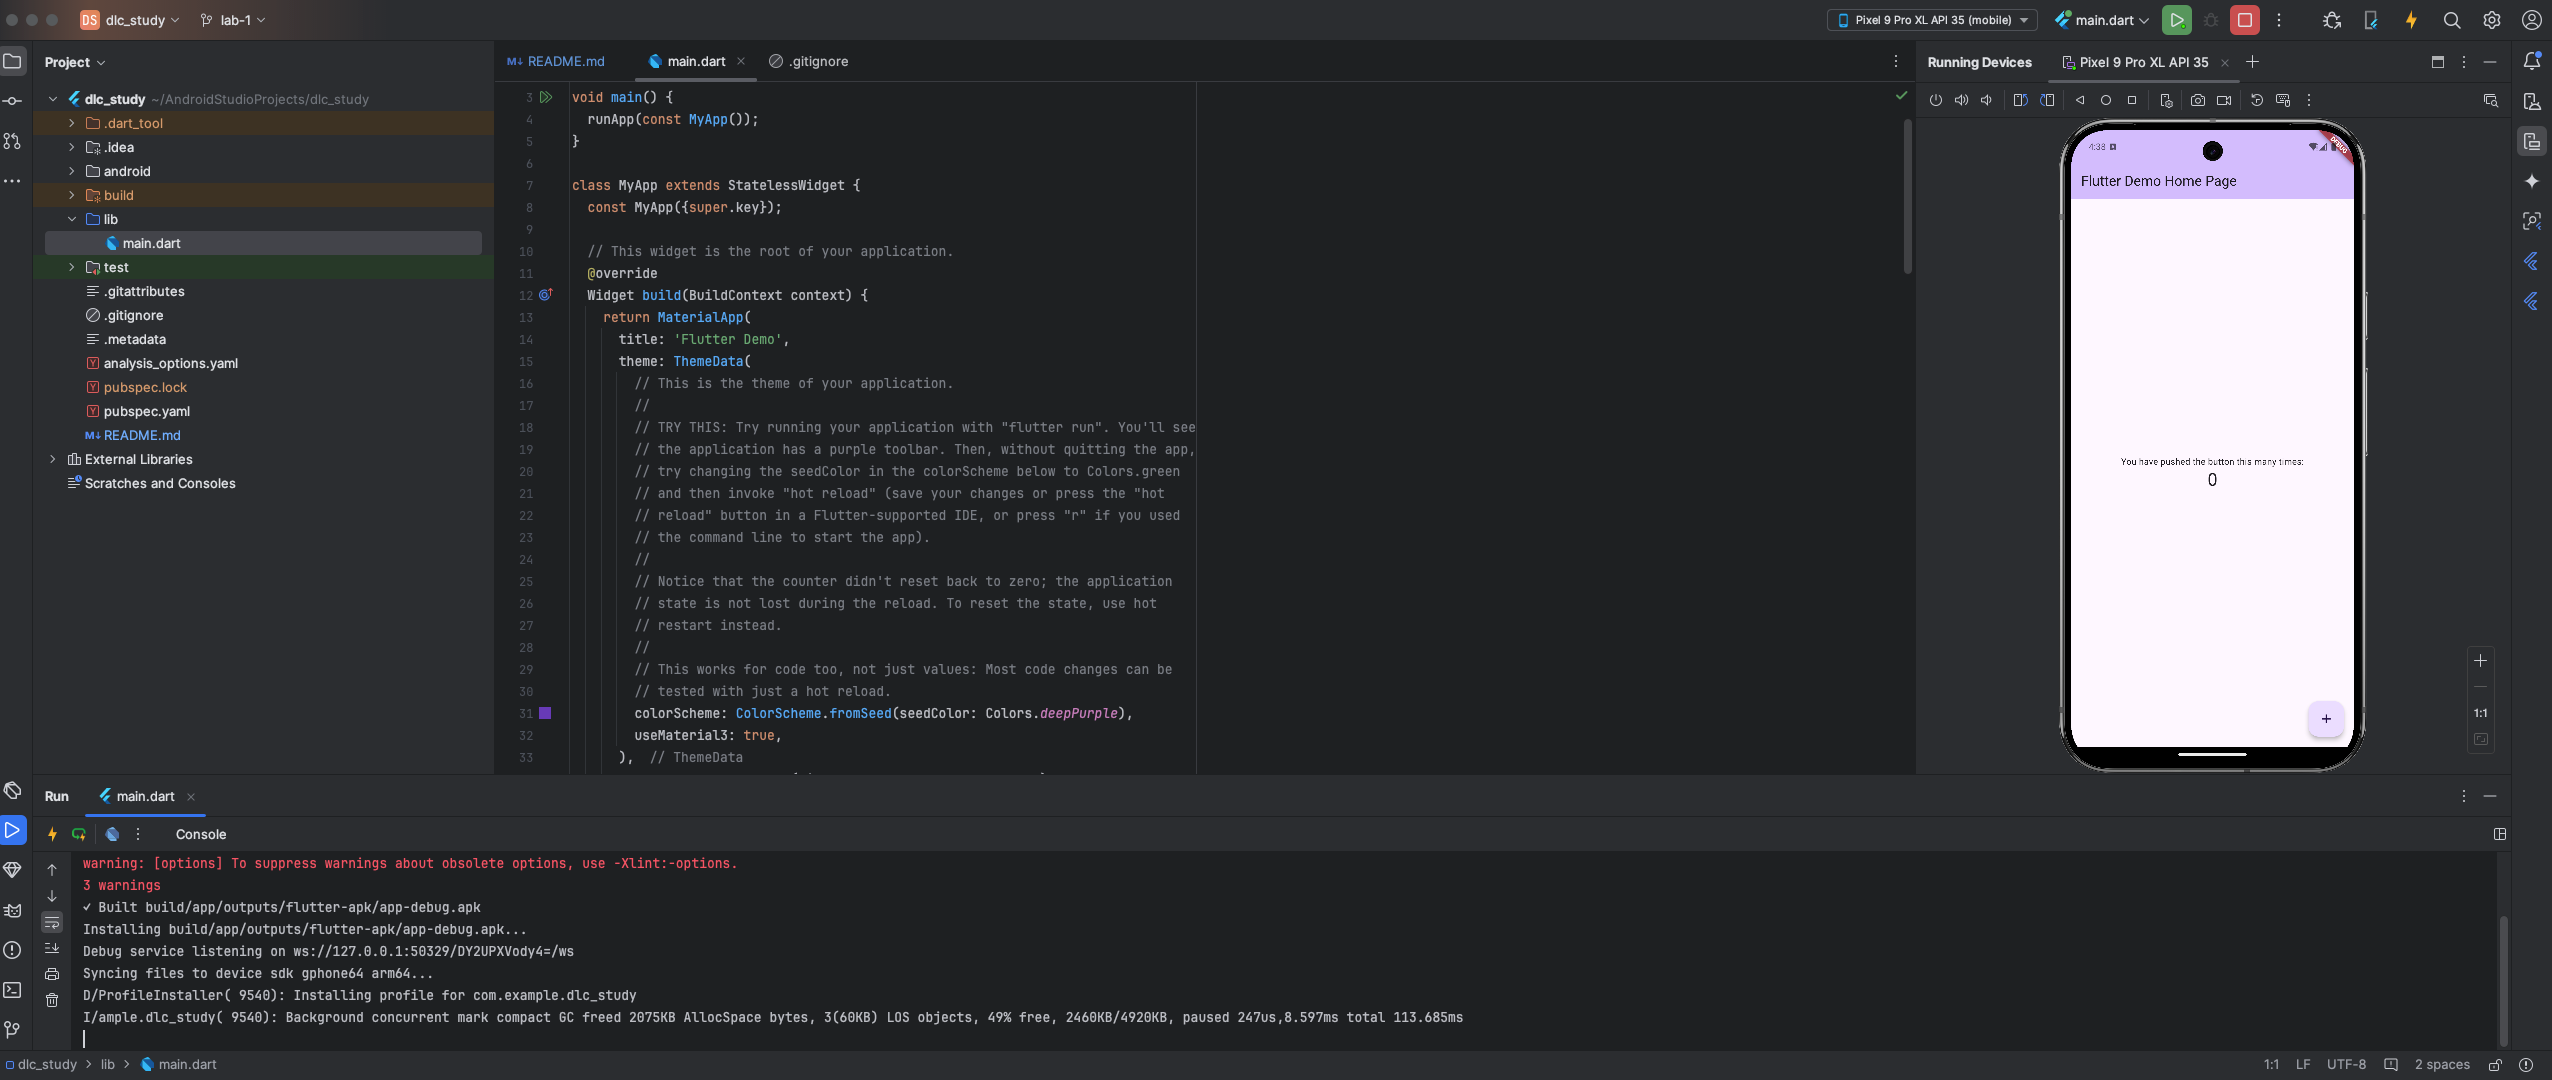
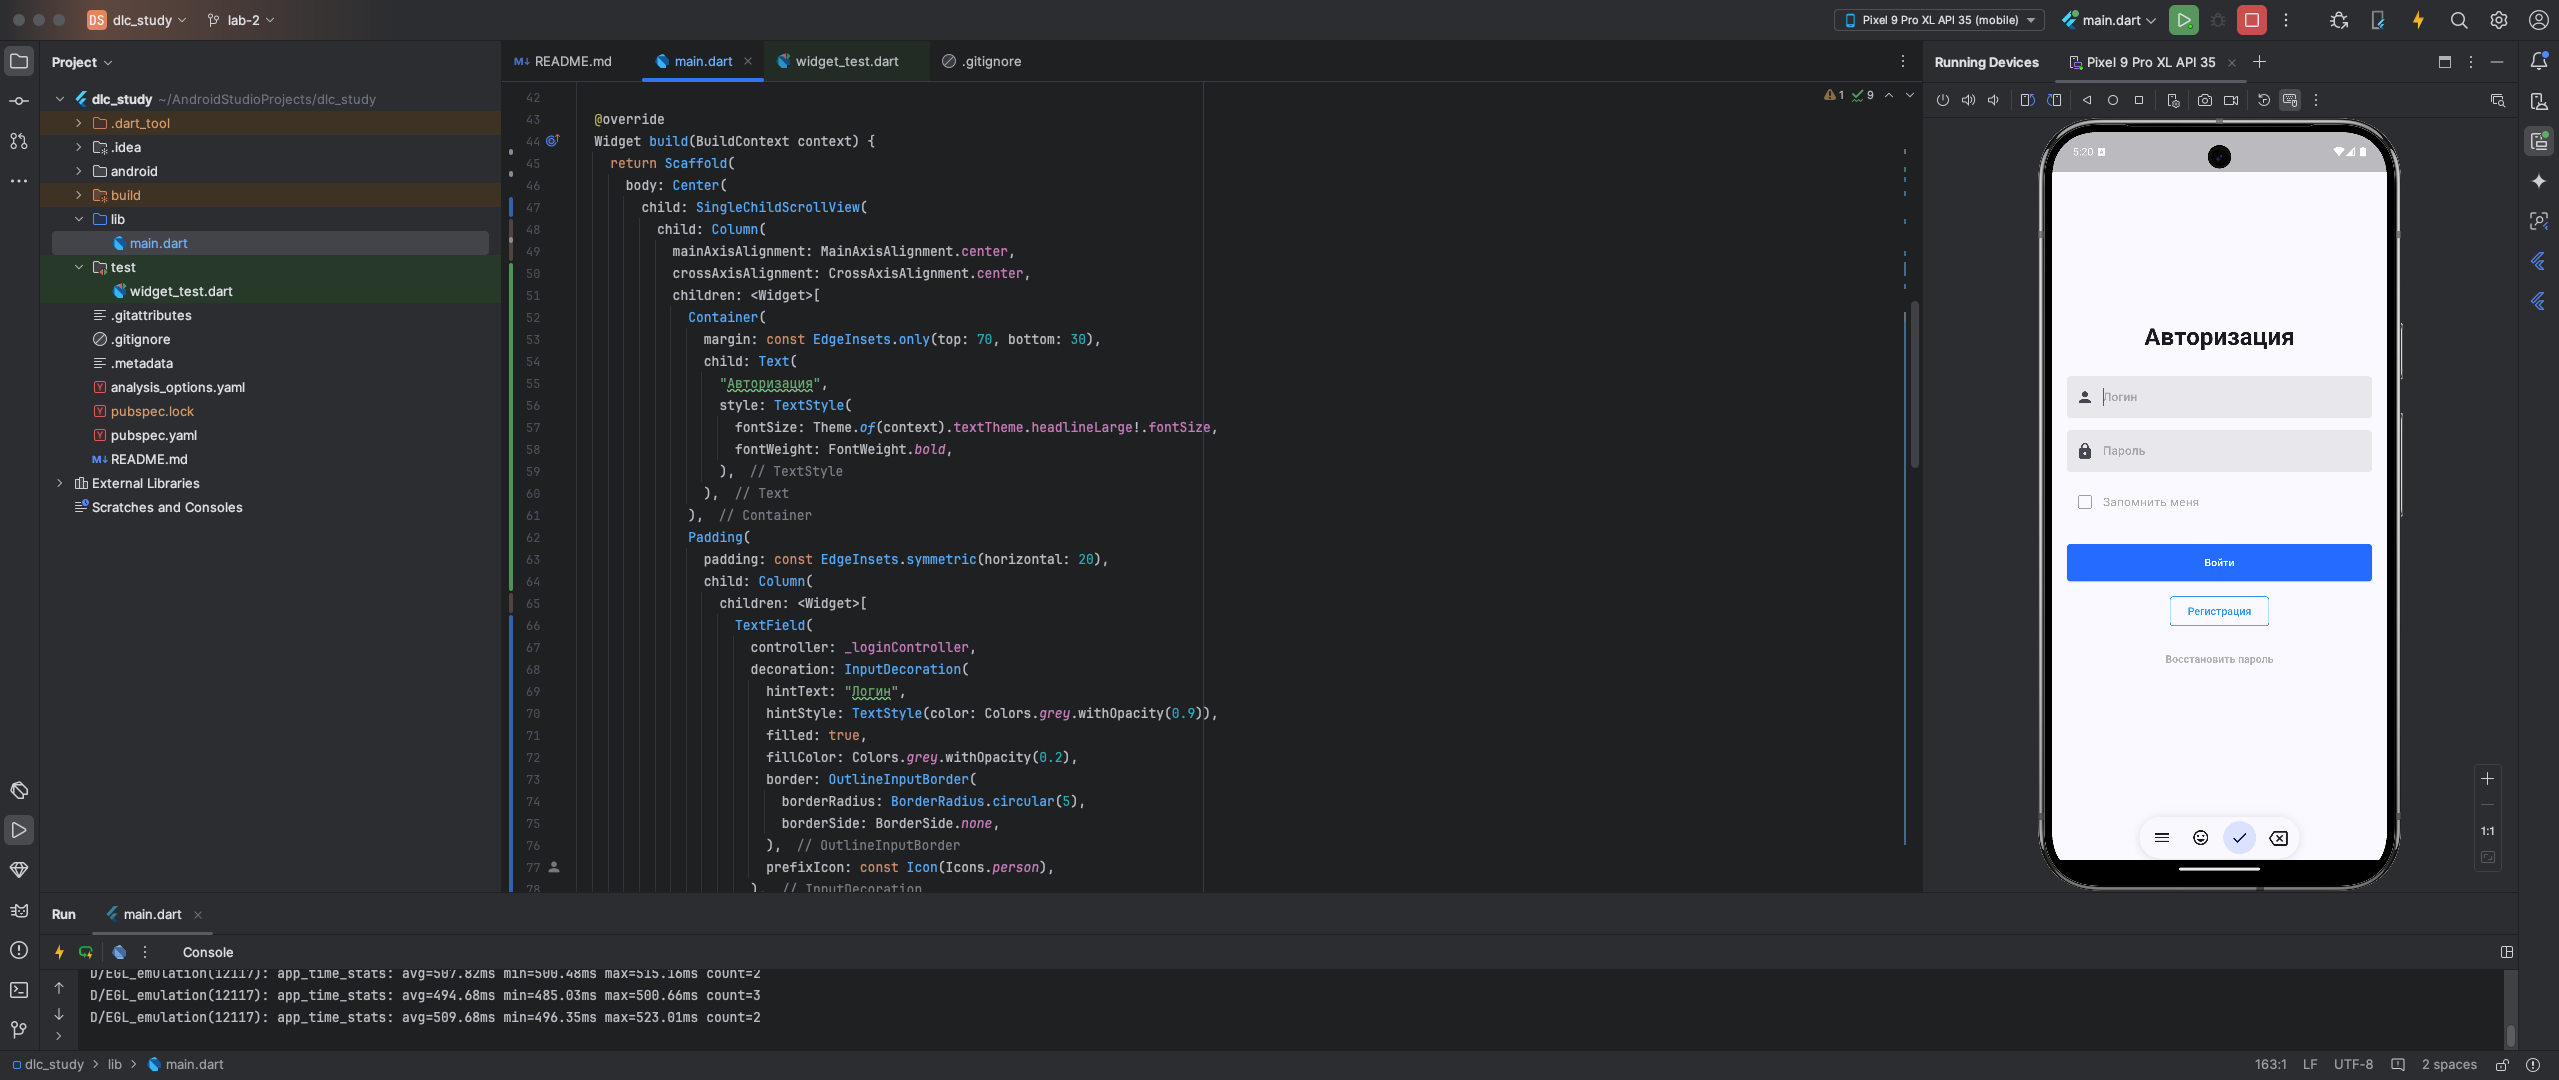
feat: add authorization screen

diff --git a/lib/main.dart b/lib/main.dart
@@ -7,119 +7,156 @@ void main() {
 class MyApp extends StatelessWidget {
   const MyApp({super.key});
 
-  // This widget is the root of your application.
   @override
   Widget build(BuildContext context) {
     return MaterialApp(
       title: 'Flutter Demo',
+      debugShowCheckedModeBanner: false,
       theme: ThemeData(
-        // This is the theme of your application.
-        //
-        // TRY THIS: Try running your application with "flutter run". You'll see
-        // the application has a purple toolbar. Then, without quitting the app,
-        // try changing the seedColor in the colorScheme below to Colors.green
-        // and then invoke "hot reload" (save your changes or press the "hot
-        // reload" button in a Flutter-supported IDE, or press "r" if you used
-        // the command line to start the app).
-        //
-        // Notice that the counter didn't reset back to zero; the application
-        // state is not lost during the reload. To reset the state, use hot
-        // restart instead.
-        //
-        // This works for code too, not just values: Most code changes can be
-        // tested with just a hot reload.
-        colorScheme: ColorScheme.fromSeed(seedColor: Colors.deepPurple),
+        colorScheme: ColorScheme.fromSeed(seedColor: Colors.blueAccent),
         useMaterial3: true,
       ),
-      home: const MyHomePage(title: 'Flutter Demo Home Page'),
+      home: const MyHomePage(),
     );
   }
 }
 
 class MyHomePage extends StatefulWidget {
-  const MyHomePage({super.key, required this.title});
-
-  // This widget is the home page of your application. It is stateful, meaning
-  // that it has a State object (defined below) that contains fields that affect
-  // how it looks.
-
-  // This class is the configuration for the state. It holds the values (in this
-  // case the title) provided by the parent (in this case the App widget) and
-  // used by the build method of the State. Fields in a Widget subclass are
-  // always marked "final".
-
-  final String title;
+  const MyHomePage({super.key});
 
   @override
   State<MyHomePage> createState() => _MyHomePageState();
 }
 
 class _MyHomePageState extends State<MyHomePage> {
-  int _counter = 0;
+  bool _checked = false;
 
-  void _incrementCounter() {
+  final TextEditingController _loginController = TextEditingController();
+  final TextEditingController _passwordController = TextEditingController();
+
+  void _toggleChecked(bool? newValue) {
     setState(() {
-      // This call to setState tells the Flutter framework that something has
-      // changed in this State, which causes it to rerun the build method below
-      // so that the display can reflect the updated values. If we changed
-      // _counter without calling setState(), then the build method would not be
-      // called again, and so nothing would appear to happen.
-      _counter++;
+      _checked = newValue ?? false;
     });
   }
 
   @override
   Widget build(BuildContext context) {
-    // This method is rerun every time setState is called, for instance as done
-    // by the _incrementCounter method above.
-    //
-    // The Flutter framework has been optimized to make rerunning build methods
-    // fast, so that you can just rebuild anything that needs updating rather
-    // than having to individually change instances of widgets.
     return Scaffold(
-      appBar: AppBar(
-        // TRY THIS: Try changing the color here to a specific color (to
-        // Colors.amber, perhaps?) and trigger a hot reload to see the AppBar
-        // change color while the other colors stay the same.
-        backgroundColor: Theme.of(context).colorScheme.inversePrimary,
-        // Here we take the value from the MyHomePage object that was created by
-        // the App.build method, and use it to set our appbar title.
-        title: Text(widget.title),
-      ),
       body: Center(
-        // Center is a layout widget. It takes a single child and positions it
-        // in the middle of the parent.
-        child: Column(
-          // Column is also a layout widget. It takes a list of children and
-          // arranges them vertically. By default, it sizes itself to fit its
-          // children horizontally, and tries to be as tall as its parent.
-          //
-          // Column has various properties to control how it sizes itself and
-          // how it positions its children. Here we use mainAxisAlignment to
-          // center the children vertically; the main axis here is the vertical
-          // axis because Columns are vertical (the cross axis would be
-          // horizontal).
-          //
-          // TRY THIS: Invoke "debug painting" (choose the "Toggle Debug Paint"
-          // action in the IDE, or press "p" in the console), to see the
-          // wireframe for each widget.
-          mainAxisAlignment: MainAxisAlignment.center,
-          children: <Widget>[
-            const Text(
-              'You have pushed the button this many times:',
-            ),
-            Text(
-              '$_counter',
-              style: Theme.of(context).textTheme.headlineMedium,
-            ),
-          ],
+        child: SingleChildScrollView(
+          child: Column(
+            mainAxisAlignment: MainAxisAlignment.center,
+            crossAxisAlignment: CrossAxisAlignment.center,
+            children: <Widget>[
+              Container(
+                margin: const EdgeInsets.only(top: 70, bottom: 30),
+                child: Text(
+                  "Авторизация",
+                  style: TextStyle(
+                    fontSize: Theme.of(context).textTheme.headlineLarge!.fontSize,
+                    fontWeight: FontWeight.bold,
+                  ),
+                ),
+              ),
+              Padding(
+                padding: const EdgeInsets.symmetric(horizontal: 20),
+                child: Column(
+                  children: <Widget>[
+                    TextField(
+                      controller: _loginController,
+                      decoration: InputDecoration(
+                        hintText: "Логин",
+                        hintStyle: TextStyle(color: Colors.grey.withOpacity(0.9)),
+                        filled: true,
+                        fillColor: Colors.grey.withOpacity(0.2),
+                        border: OutlineInputBorder(
+                          borderRadius: BorderRadius.circular(5),
+                          borderSide: BorderSide.none,
+                        ),
+                        prefixIcon: const Icon(Icons.person),
+                      ),
+                    ),
+                    const SizedBox(height: 16),
+                    TextField(
+                      controller: _passwordController,
+                      obscureText: true,
+                      decoration: InputDecoration(
+                        hintText: "Пароль",
+                        hintStyle: TextStyle(color: Colors.grey.withOpacity(0.9)),
+                        filled: true,
+                        fillColor: Colors.grey.withOpacity(0.2),
+                        border: OutlineInputBorder(
+                          borderRadius: BorderRadius.circular(5),
+                          borderSide: BorderSide.none,
+                        ),
+                        prefixIcon: const Icon(Icons.lock),
+                      ),
+                    ),
+                    const SizedBox(height: 16),
+                    Row(
+                      children: <Widget>[
+                        Checkbox(
+                          value: _checked,
+                          onChanged: _toggleChecked,
+                          side: const BorderSide(color: Colors.grey),
+                        ),
+                        Text(
+                          "Запомнить меня",
+                          style: TextStyle(
+                            color: Colors.grey.withOpacity(0.9),
+                            fontSize: Theme.of(context).textTheme.bodyLarge!.fontSize,
+                          ),
+                        ),
+                      ],
+                    ),
+                    const SizedBox(height: 32),
+                    ElevatedButton(
+                      style: ElevatedButton.styleFrom(
+                        backgroundColor: const Color.fromRGBO(11, 107, 254, 1),
+                        shape: RoundedRectangleBorder(
+                          borderRadius: BorderRadius.circular(5),
+                        ),
+                        minimumSize: Size(double.infinity, 50),
+                      ),
+                      onPressed: () {},
+                      child: const Text(
+                        "Войти",
+                        style: TextStyle(color: Colors.white),
+                      ),
+                    ),
+                    const SizedBox(height: 16),
+                    OutlinedButton(
+                      style: OutlinedButton.styleFrom(
+                        shape: RoundedRectangleBorder(
+                          borderRadius: BorderRadius.circular(5),
+                        ),
+                        side: const BorderSide(color: Colors.blue, width: 1),
+                      ),
+                      onPressed: () {},
+                      child: const Text(
+                        "Регистрация",
+                        style: TextStyle(color: Colors.blue),
+                      ),
+                    ),
+                    const SizedBox(height: 16),
+                    TextButton(
+                      onPressed: () {},
+                      child: Text(
+                        "Восстановить пароль",
+                        style: TextStyle(
+                          color: Colors.grey.withOpacity(0.8),
+                          fontWeight: FontWeight.w700,
+                        ),
+                      ),
+                    ),
+                  ],
+                ),
+              ),
+            ],
+          ),
         ),
       ),
-      floatingActionButton: FloatingActionButton(
-        onPressed: _incrementCounter,
-        tooltip: 'Increment',
-        child: const Icon(Icons.add),
-      ), // This trailing comma makes auto-formatting nicer for build methods.
     );
   }
 }

diff --git a/README.md b/README.md
@@ -1,4 +1,4 @@
-# Lab-1 
+# Lab-2 
 Шабров Даниил Сергевич
 # Screenshot
 ![img.png](img.png)
